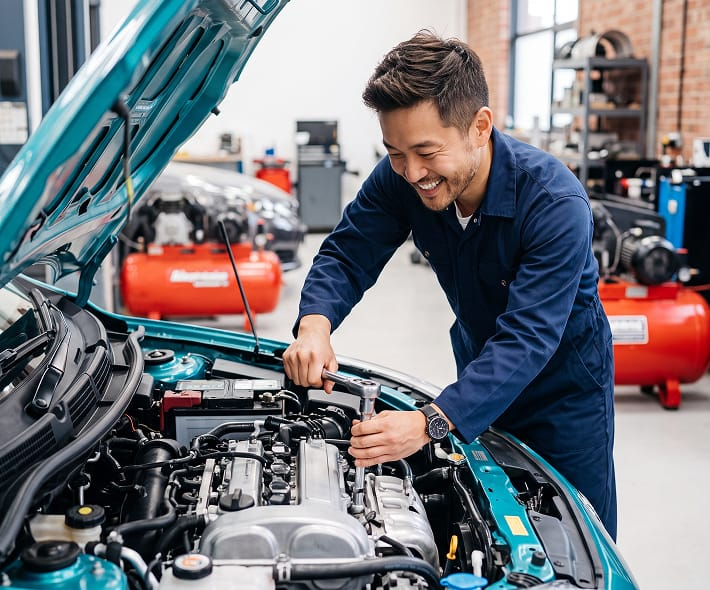
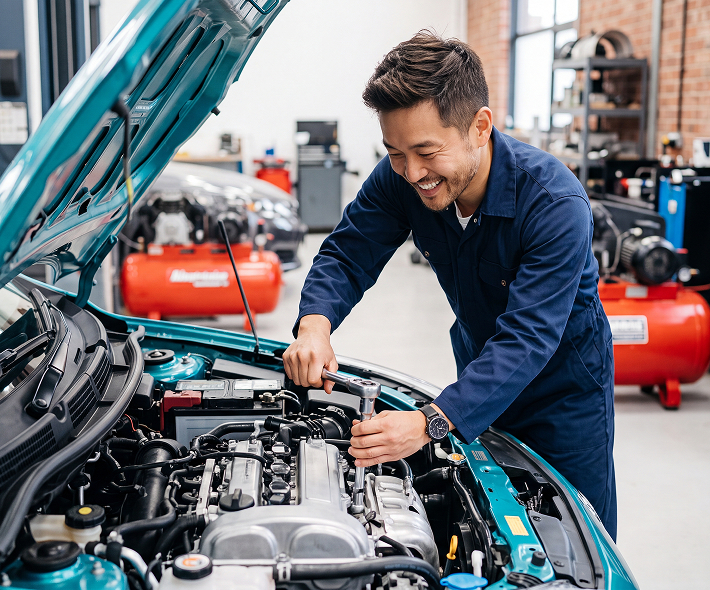
Rebuild the footer, fix industry slide stacking, restore photo quality
Footer: full-bleed hairlines at 0.5px, Product/Company/Legal columns,
Facebook and Instagram links, and a "Backed by Codixel" credit linking to
codixel.tech. Drops the CTA and the duplicate wordmark from the bottom bar.

Industries: every inactive slide shared z-index 1, so the partially clipped
incoming image revealed whichever slide was last in the DOM. Hospitality
always won that tie-break and flashed on every transition. The outgoing
slide now gets its own layer.

Images: the pre-compression sources are back. next/image re-encodes per
request, so shipping crushed JPEGs only stacked two lossy passes. These
photos are only 710x590 and render at about 730x600 CSS px, so they still
upscale on HiDPI displays; quality 90 (allowlisted via images.qualities,
which Next 16 requires) keeps AVIF from compounding it. Real fix is larger
sources.

diff --git a/src/components/footer.tsx b/src/components/footer.tsx
@@ -1,6 +1,6 @@
 import Link from "next/link";
+import { SiFacebook, SiInstagram } from "@icons-pack/react-simple-icons";
 import { Container } from "./container";
-import { AgentButton } from "./agent-button";
 
 const COLUMNS = [
   {
@@ -8,69 +8,93 @@ const COLUMNS = [
     links: [
       { label: "Features", href: "/features" },
       { label: "Pricing", href: "/pricing" },
+      { label: "Resources", href: "/resources" },
     ],
-  },
-  {
-    title: "Resources",
-    links: [{ label: "Resources", href: "/resources" }],
   },
   {
     title: "Company",
     links: [{ label: "Contact", href: "/contact" }],
   },
+  {
+    title: "Legal",
+    links: [
+      { label: "Privacy Notice", href: "#" },
+      { label: "Terms of Service", href: "#" },
+    ],
+  },
+];
+
+const SOCIALS = [
+  { label: "Facebook", href: "#", Icon: SiFacebook },
+  { label: "Instagram", href: "#", Icon: SiInstagram },
 ];
 
 export function Footer() {
   return (
-    <footer className="border-t border-border">
-      <Container className="py-16">
-        <div className="grid grid-cols-2 gap-10 border-b border-border pb-12 sm:grid-cols-5">
-          <div className="col-span-2">
-            <Link href="/" className="flex items-center gap-2">
-              <span className="flex h-7 w-7 items-center justify-center rounded-md bg-foreground text-sm font-bold text-background">
-                C
-              </span>
-              <span className="text-lg font-semibold tracking-tight">Codely</span>
-            </Link>
-            <p className="mt-3 max-w-xs text-sm text-foreground-muted">
-              Voice and chat agents that pick up, look things up, and get the job done for
-              your customers.
-            </p>
-            <AgentButton href="/contact" className="mt-6" />
-          </div>
-
-          {COLUMNS.map((column) => (
-            <div key={column.title}>
-              <p className="text-sm font-medium text-foreground">{column.title}</p>
-              <ul className="mt-4 space-y-3">
-                {column.links.map((link) => (
-                  <li key={link.href}>
-                    <Link
-                      href={link.href}
-                      className="text-sm text-foreground-muted transition-colors hover:text-foreground"
-                    >
-                      {link.label}
-                    </Link>
-                  </li>
-                ))}
-              </ul>
-            </div>
-          ))}
+    // The hairlines here are full-bleed: each rule sits on a full-width
+    // wrapper, and only the content inside keeps the page's container width.
+    <footer className="border-t-[0.5px] border-border">
+      <Container className="grid grid-cols-2 gap-10 py-16 sm:grid-cols-5">
+        <div className="col-span-2">
+          <Link href="/" className="flex items-center gap-2">
+            <span className="flex h-7 w-7 items-center justify-center rounded-md bg-foreground text-sm font-bold text-background">
+              C
+            </span>
+            <span className="text-lg font-semibold tracking-tight">Codely</span>
+          </Link>
+          <p className="mt-3 max-w-xs text-sm text-foreground-muted">
+            Voice and chat agents that pick up, look things up, and get the job done for
+            your customers.
+          </p>
         </div>
 
-        <div className="mt-8 flex flex-col items-start justify-between gap-4 sm:flex-row sm:items-center">
-          <span className="text-xs text-foreground-muted">
-            &copy; {new Date().getFullYear()} Codely
-          </span>
-          <div className="flex gap-6 text-xs text-foreground-muted">
-            <a href="#" className="hover:text-foreground">
-              Privacy
-            </a>
-            <a href="#" className="hover:text-foreground">
-              Terms
-            </a>
+        {COLUMNS.map((column) => (
+          <div key={column.title}>
+            <p className="text-sm font-medium text-foreground">{column.title}</p>
+            <ul className="mt-4 space-y-3">
+              {column.links.map((link) => (
+                <li key={link.href}>
+                  <Link
+                    href={link.href}
+                    className="text-sm text-foreground-muted transition-colors hover:text-foreground"
+                  >
+                    {link.label}
+                  </Link>
+                </li>
+              ))}
+            </ul>
           </div>
-        </div>
+        ))}
+      </Container>
+
+      <div className="grid grid-cols-2 border-y-[0.5px] border-border">
+        {SOCIALS.map(({ label, href, Icon }, i) => (
+          <a
+            key={label}
+            href={href}
+            aria-label={label}
+            className={`flex items-center justify-center py-6 text-foreground-muted transition-colors hover:text-foreground ${
+              i > 0 ? "border-l-[0.5px] border-border" : ""
+            }`}
+          >
+            <Icon size={18} aria-hidden="true" />
+          </a>
+        ))}
+      </div>
+
+      <Container className="flex flex-col items-start gap-3 py-8 sm:flex-row sm:items-center sm:justify-between">
+        <span className="text-xs text-foreground-muted">
+          &copy; {new Date().getFullYear()} Codely. All rights reserved.
+        </span>
+
+        <a
+          href="https://codixel.tech"
+          target="_blank"
+          rel="noopener noreferrer"
+          className="text-xs text-foreground-muted"
+        >
+          Backed by <span className="font-semibold text-foreground">Codixel</span>
+        </a>
       </Container>
     </footer>
   );

diff --git a/src/components/industries-section.tsx b/src/components/industries-section.tsx
@@ -131,6 +131,7 @@ function IndustryVisual({
   active,
   direction = 1,
   animated = false,
+  zIndex = active ? 2 : 1,
 }: {
   item: Industry;
   active: boolean;
@@ -138,6 +139,10 @@ function IndustryVisual({
   direction?: 1 | -1;
   /** Only the pinned desktop story drives a GSAP reveal; the static mobile list stays plain. */
   animated?: boolean;
+  /** Paint order within the stack. Defaults to active-on-top; the pinned
+      story overrides this so the outgoing slide (not just whichever item
+      happens to be last in the array) shows through mid-wipe. */
+  zIndex?: number;
 }) {
   const maskRef = useRef<HTMLDivElement | null>(null);
   const scaleRef = useRef<HTMLDivElement | null>(null);
@@ -172,14 +177,15 @@ function IndustryVisual({
   }, [active, direction, animated, reducedMotion]);
 
   return (
-    <div className="absolute inset-0" style={{ zIndex: active ? 2 : 1 }}>
+    <div className="absolute inset-0" style={{ zIndex }}>
       <div ref={maskRef} className="absolute inset-0 overflow-hidden">
         <div ref={scaleRef} className="absolute inset-0">
           <Image
             src={item.image}
             alt={item.eyebrow}
             fill
-            sizes="(min-width: 1024px) 700px, 100vw"
+            sizes="(min-width: 1024px) 730px, 100vw"
+            quality={90}
             priority={item.slug === "healthcare"}
             className="object-cover"
           />
@@ -219,6 +225,7 @@ function IndustryChip({ eyebrow }: { eyebrow: string }) {
 /** Desktop-only, motion-safe: the pinned scroll-driven story. */
 function IndustriesStory() {
   const [index, setIndex] = useState(0);
+  const [prevIndex, setPrevIndex] = useState(0);
   const [direction, setDirection] = useState<1 | -1>(1);
   const prevIndexRef = useRef(0);
   const textRef = useRef<HTMLDivElement | null>(null);
@@ -240,6 +247,7 @@ function IndustriesStory() {
           const next = Math.min(TOTAL - 1, Math.floor(self.progress * TOTAL));
           if (next === prevIndexRef.current) return;
           setDirection(next > prevIndexRef.current ? 1 : -1);
+          setPrevIndex(prevIndexRef.current);
           prevIndexRef.current = next;
           setIndex(next);
         },
@@ -290,6 +298,7 @@ function IndustriesStory() {
               active={i === index}
               direction={direction}
               animated
+              zIndex={i === index ? 3 : i === prevIndex ? 2 : 1}
             />
           ))}
         </div>

diff --git a/next.config.ts b/next.config.ts
@@ -4,6 +4,11 @@ const nextConfig: NextConfig = {
   images: {
     // AVIF first (roughly 20 to 30% smaller than WebP), WebP as the fallback.
     formats: ["image/avif", "image/webp"],
+    // Next 16 defaults this to [75] and rejects anything else with a 400.
+    // The industry photos are upscaled on HiDPI screens (their sources are
+    // only 710px wide), so they opt into 90 to avoid stacking AVIF loss on
+    // top of that; everything else stays on the 75 default.
+    qualities: [75, 90],
   },
   experimental: {
     // Tree-shake icon barrels so only the icons actually used ship.

diff --git a/PROJECTOVERVIEW.md b/PROJECTOVERVIEW.md
@@ -508,8 +508,9 @@ the mobile menu toggle.
   `min-h-[440px]`), with the vendored `Orb` WebGL ring behind a centred `type-section`
   headline, `type-lead` subtext, and the `AgentButton`.
 - **`AgentButton`** ([agent-button.tsx](src/components/agent-button.tsx)): **every CTA on
-  the site** uses it. That covers the nav (desktop and mobile), hero, footer, CTA,
+  the site** uses it. That covers the nav (desktop and mobile), hero, CTA,
   industries, pricing tiers, FAQ, and the lead intake's Continue / Send my brief.
+  The footer carries no CTA.
   - **At rest:** a plain pill with just its label. No arrow, no icon.
   - **On hover or focus:** a GSAP timeline spins and pops an agent avatar (a disc of four
     voice bars) in at the left edge with a back-ease and an accent ring flare. The bars
@@ -735,10 +736,16 @@ export function getResourceBySlug(slug)
 
 - **Every route is static** (`○` / `●` in `next build`): prerendered HTML, no server work
   per request.
-- **Images:** `next.config.ts` serves AVIF first, then WebP. Source JPGs in
-  `public/images/industries/` are pre-compressed (mozjpeg q80, ≤1600px, about 60KB each).
-  Re-compress new photos the same way before adding them. The robot PNG ships as about 23KB
-  AVIF via `next/image`.
+- **Images:** `next.config.ts` serves AVIF first, then WebP, and allowlists
+  `qualities: [75, 90]` (Next 16 defaults to `[75]` and 400s on anything else).
+  Do **not** pre-compress source JPGs: `next/image` re-encodes them per request, so a
+  crushed source just stacks two lossy passes. Ship the highest-resolution original you
+  have and let the optimizer do the work. The robot PNG ships as about 23KB AVIF.
+  - **The `public/images/industries/` photos are only 710x590.** The desktop slot renders
+    them at about 730x600 CSS px, so on a 2x display they upscale about 2x and look soft.
+    `next/image` never upscales past the source, so no quality setting fixes this; they
+    opt into `quality={90}` to at least avoid adding AVIF loss on top. Replacing them with
+    roughly 1500x1250 or larger sources is the only real fix.
 - **Code splitting:**
   - `three` loads only when the first particle view registers.
   - `ogl` plus the Ferrofluid/Orb shaders load via `next/dynamic` after hydration.
